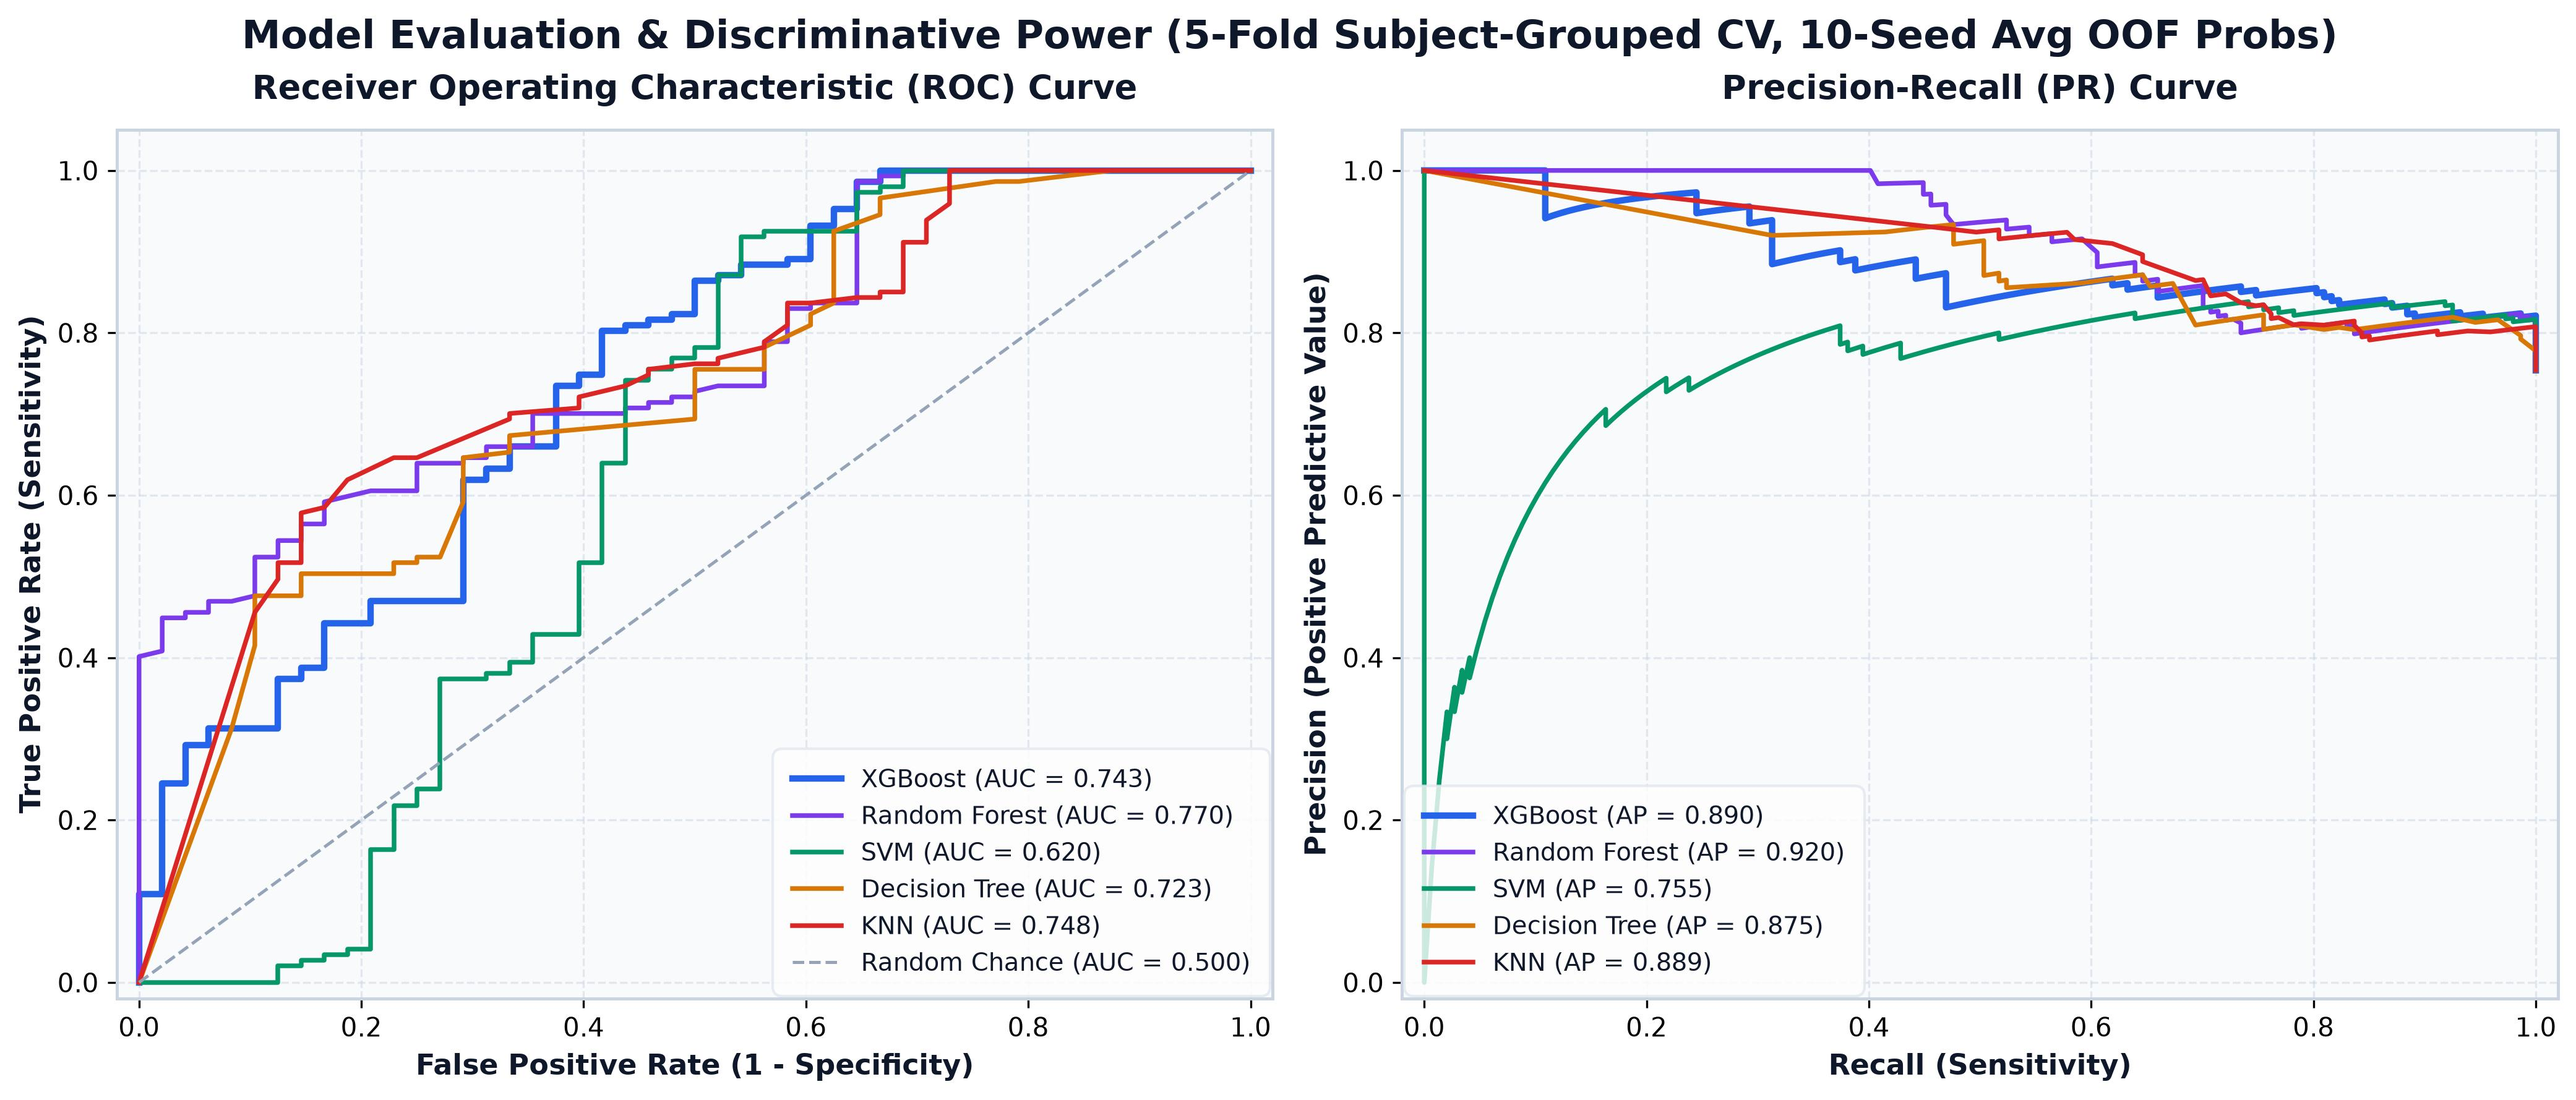
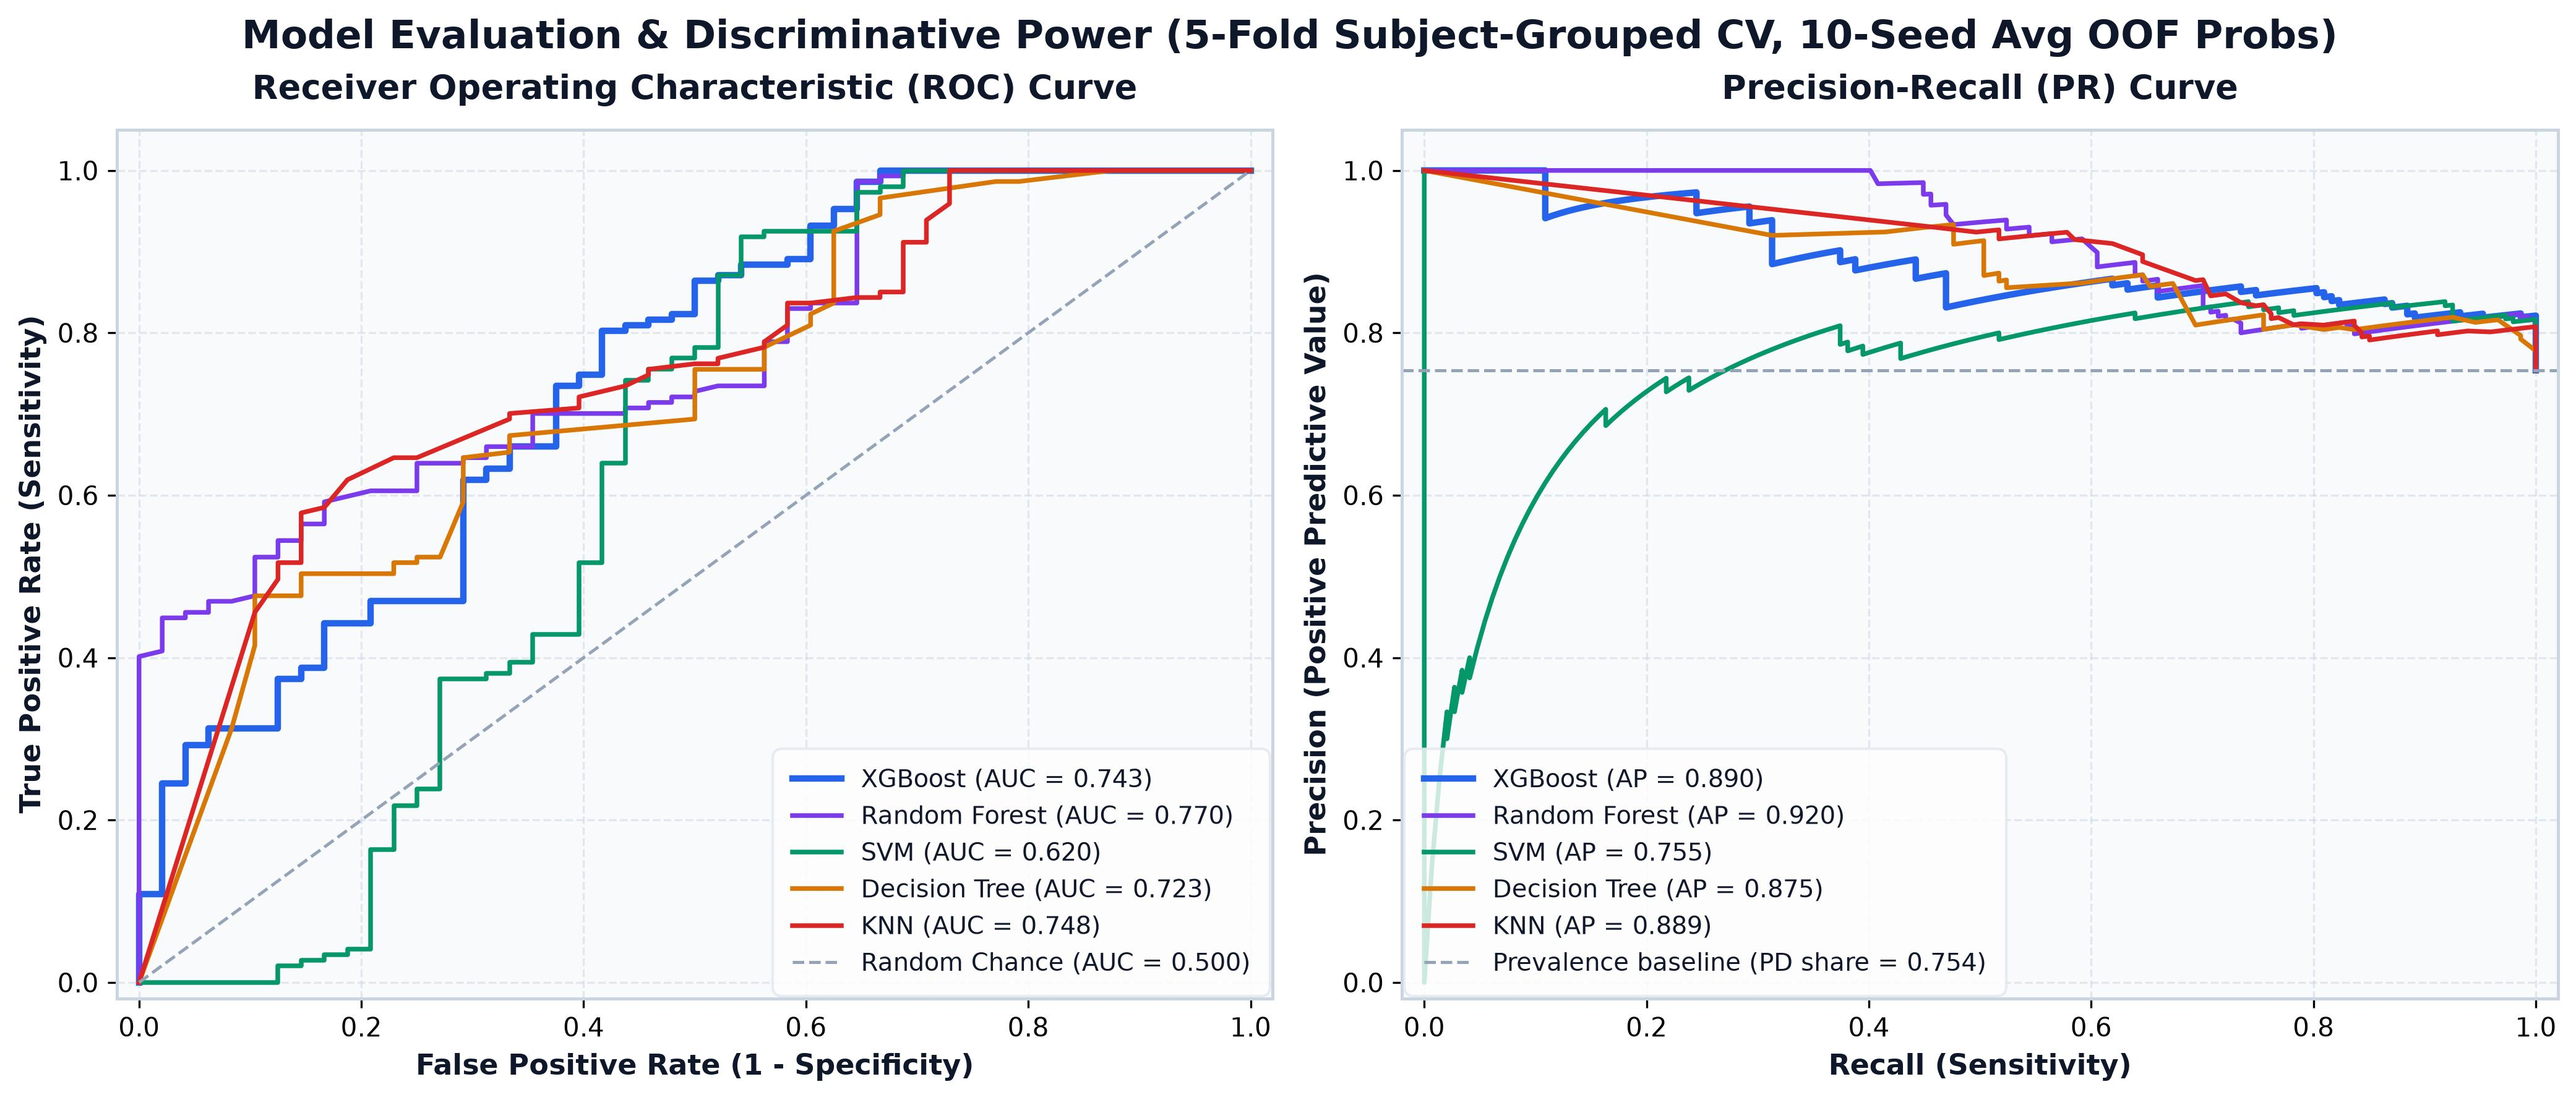
Add VIC reproduction script; README lead, limitations, data credits; PR prevalence baseline

Changed region(s): [[0.5307, 0.6802, 0.7805, 0.8966]]

diff --git a/scripts/reproduce_vic.py b/scripts/reproduce_vic.py
@@ -1,0 +1,70 @@
+"""Reproduce the VIC vs raw-22 subject-grouped CV result from docs/INDEX_PROPOSAL.md.
+
+Protocol: StratifiedGroupKFold(5, shuffle=True, random_state=seed), seeds 0-9,
+Pipeline(StandardScaler -> LogisticRegression(max_iter=5000)), fit per fold.
+Groups = subject ID parsed from the `name` column. VIC is a row-wise function
+(no fitted parameters), so it needs no fold-safe fitting.
+
+Run from repo root: python scripts/reproduce_vic.py
+"""
+import numpy as np
+import pandas as pd
+from sklearn.linear_model import LogisticRegression
+from sklearn.metrics import accuracy_score, f1_score, roc_auc_score
+from sklearn.model_selection import StratifiedGroupKFold
+from sklearn.pipeline import make_pipeline
+from sklearn.preprocessing import StandardScaler
+
+SEEDS = range(10)
+
+
+def load():
+    df = pd.read_csv("data/pd_data.txt")
+    df["VIC"] = np.log10(df["MDVP:Jitter(%)"] * df["Shimmer:APQ3"] * df["spread2"] * 1000)
+    groups = df["name"].str.extract(r"(S\d+)")[0].values
+    y = df["status"].values
+    raw22 = df.drop(columns=["name", "status", "VIC"])
+    return df, raw22, y, groups
+
+
+def evaluate(X, y, groups):
+    per_seed = []  # one dict per seed
+    fold_auc_all = []
+    for seed in SEEDS:
+        skf = StratifiedGroupKFold(n_splits=5, shuffle=True, random_state=seed)
+        accs, f1s, fold_aucs = [], [], []
+        oof = np.zeros(len(y))
+        for tr, va in skf.split(X, y, groups=groups):
+            model = make_pipeline(StandardScaler(), LogisticRegression(max_iter=5000))
+            model.fit(X.iloc[tr], y[tr])
+            p = model.predict_proba(X.iloc[va])[:, 1]
+            oof[va] = p
+            accs.append(accuracy_score(y[va], p > 0.5))
+            f1s.append(f1_score(y[va], p > 0.5, zero_division=0))
+            if len(np.unique(y[va])) == 2:
+                fold_aucs.append(roc_auc_score(y[va], p))
+        per_seed.append({
+            "acc": np.mean(accs), "f1": np.mean(f1s),
+            "auc_foldmean": np.mean(fold_aucs),     # docs/INDEX_PROPOSAL.md AUC: mean of per-fold AUCs, per seed
+            "auc_pooled": roc_auc_score(y, oof),    # for reference: AUC of the pooled OOF vector (generate_clean_assets.py's per-seed AUC)
+        })
+    return pd.DataFrame(per_seed)
+
+
+def main():
+    df, raw22, y, groups = load()
+    print(f"rows={len(df)} subject IDs={len(set(groups))} PD={y.sum()} healthy={(y == 0).sum()}")
+    sets = {
+        "VIC alone": df[["VIC"]],
+        "Raw 22": raw22,
+        "VIC parents (Jitter%, APQ3, spread2)": df[["MDVP:Jitter(%)", "Shimmer:APQ3", "spread2"]],
+    }
+    for name, X in sets.items():
+        r = evaluate(X, y, groups)
+        print(f"\n{name}  (mean +/- std over 10 seeds)")
+        for col in ["acc", "f1", "auc_foldmean", "auc_pooled"]:
+            print(f"  {col:13s} {r[col].mean():.3f} +/- {r[col].std(ddof=0):.3f}")
+
+
+if __name__ == "__main__":
+    main()

diff --git a/generate_clean_assets.py b/generate_clean_assets.py
@@ -390,6 +390,10 @@ def plot_roc_pr(y, oof_probabilities):
     plt.setp(leg1.get_texts(), color='#0F172A')
 
     # PR Panel styling
+    # Prevalence baseline: precision of a no-skill classifier equals the PD share (147/195).
+    prevalence = y.mean()
+    ax2.axhline(prevalence, linestyle='--', lw=1.2, color='#94A3B8',
+                label=f'Prevalence baseline (PD share = {prevalence:.3f})')
     ax2.set_xlim([-0.02, 1.02])
     ax2.set_ylim([-0.02, 1.05])
     ax2.set_xlabel('Recall (Sensitivity)', fontsize=11, fontweight='bold', color='#0F172A')

diff --git a/README.md b/README.md
@@ -9,7 +9,7 @@
 
 Five classifiers are compared on the Oxford Parkinson's voice dataset using cross-validation **grouped by subject**, so no person's recordings appear in both training and validation. The project also introduces **VIC**, a single composite voice feature.
 
-- **XGBoost** is the best of the five (F1 0.872, accuracy 0.796), but it only slightly beats a predict-everyone-has-PD baseline (F1 0.860, accuracy 0.756).
+- **No model clearly beats the majority baseline.** The best accuracy (XGBoost, 0.796 ± 0.098) and F1 (XGBoost, 0.872 ± 0.063) sit inside the noise of the predict-everyone-has-PD baseline (accuracy 0.756 ± 0.067, F1 0.860 ± 0.043). The table below has all five models.
 - **VIC alone** reaches 0.833 ROC-AUC in a logistic-regression test, versus 0.734 for all 22 raw features.
 - **Row-level splits inflate scores on this dataset**, because each person has 6–7 recordings and a random split puts the same speaker in both train and test. Grouping by subject removes that.
 
@@ -41,7 +41,7 @@ flowchart TD
 | KNN | 0.754 ± 0.081 | 0.810 ± 0.080 | 0.891 ± 0.086 | 0.844 ± 0.055 | 0.715 ± 0.046 |
 
 How to read this table:
-- **XGBoost leads**, but its margins over the baseline are within fold-to-fold noise.
+- **XGBoost has the top accuracy and F1**, but its margins over the baseline are within fold-to-fold noise.
 - **Random Forest ranks cases best** (highest AUC), but its default decision threshold is poorly set.
 - **SVM's high F1 is misleading.** Its near-chance AUC shows the score comes from mostly predicting PD.
 
@@ -50,7 +50,7 @@ How to read this table:
   <br/>
   <img src="assets/roc_pr_curves.jpg" alt="ROC and precision-recall curves" width="85%" />
   <br/>
-  <em>ROC curves pool probabilities across seeds, so the Decision Tree's curve (0.723) reads higher than its per-seed average in the table (0.637).</em>
+  <em>Both panels pool out-of-fold probabilities across the 10 seeds, so each curve's AUC differs from the per-seed average in the table, for every model (for example Decision Tree: 0.723 pooled vs 0.637 per-seed). The dashed line in the PR panel is the prevalence baseline, 147/195 = 0.754.</em>
 </p>
 
 ## VIC: Vocal Instability Compound
@@ -59,7 +59,9 @@ $$\text{VIC} = \log_{10}(\text{Jitter\%} \times \text{Shimmer:APQ3} \times \text
 
 VIC combines three kinds of voice instability: frequency (jitter), amplitude (shimmer), and pitch spread. In a standalone logistic-regression test with subject-grouped CV, VIC alone scored **0.833 ROC-AUC** against **0.734** for all 22 raw features. The 22-feature model overfits at this sample size, so this doesn't show that one feature beats twenty-two. VIC is also included as a feature in all five models above.
 
-**Limitation:** `spread2` is missing from every external dataset tried, so VIC's full formula has only been tested on the Oxford data. Details are in [`docs/`](docs/).
+The 0.833 / 0.734 comparison is reproduced by [`scripts/reproduce_vic.py`](scripts/reproduce_vic.py). It reports ROC-AUC as the mean of per-fold AUCs; the table above uses the AUC of pooled out-of-fold predictions per seed, so the two AUC columns are not directly comparable.
+
+See Limitations below and [`docs/`](docs/) for the rest.
 
 ## Run it
 
@@ -87,6 +89,20 @@ assets/                    figures used in this README
 
 The data is the UCI Oxford Parkinson's Disease Detection Dataset (Little et al.). It has 195 recordings, 147 from people with PD and 48 from healthy controls. The file contains 32 subject IDs, while the UCI documentation says 31 people. Each recording has 22 acoustic features covering pitch, jitter, shimmer, noise ratios, nonlinear dynamics (D2, RPDE, DFA), and pitch entropy (spread1, spread2, PPE).
 
+Two external datasets in `data/` are used only for the validation write-ups in `docs/`:
+- `ReplicatedAcousticFeatures-ParkinsonDatabase.csv`: UCI dataset 489, Naranjo et al. ([`docs/VIC_EXTERNAL_VALIDATION.md`](docs/VIC_EXTERNAL_VALIDATION.md)).
+- `parkinsons_updrs.data`: UCI Parkinson's Telemonitoring dataset, Tsanas, Little, McSharry and Ramig, University of Oxford ([`docs/VIC_TELEMONITORING_VALIDATION.md`](docs/VIC_TELEMONITORING_VALIDATION.md)).
+
+`docs/problem_statement.pdf` is the UCI dataset description, not project-authored.
+
+## Limitations
+
+- `spread2` is missing from both external datasets, so VIC's full formula is tested on the Oxford data only.
+- The 22-feature model overfits at this sample size (195 rows, 32 subjects), so VIC's 0.833 vs 0.734 does not show that one feature beats twenty-two.
+- SVM's F1 (0.871) comes from predicting PD for most recordings; its AUC (0.636) is near chance.
+
+More in [`docs/`](docs/).
+
 ## Acknowledgments
 
-VIC was inspired by the fPI index from *"fPI: A Novel Index for Predictive Analysis of Parkinson's Disease Using Acoustic Sound Feature"* (Gupta, Bhan & Nimsarkar, IIIT Naya Raipur). This project started from [bhanmrinal/fPI-Parkison-Analyser-using-Acoustic-Sound-Features](https://github.com/bhanmrinal/fPI-Parkison-Analyser-using-Acoustic-Sound-Features); earlier notebooks are in `legacy/`.
+VIC was inspired by the fPI index from *"fPI: A Novel Index for Predictive Analysis of Parkinson's Disease Using Acoustic Sound Feature"* (Gupta, Bhan & Nimsarkar, IIIT Naya Raipur). VIC is independently derived and does not reuse the fPI formula. This project started from [bhanmrinal/fPI-Parkison-Analyser-using-Acoustic-Sound-Features](https://github.com/bhanmrinal/fPI-Parkison-Analyser-using-Acoustic-Sound-Features); earlier notebooks are in `legacy/`.

diff --git a/docs/INDEX_PROPOSAL.md b/docs/INDEX_PROPOSAL.md
@@ -4,7 +4,7 @@ Exploratory analysis only. No formula implemented in the pipeline. No other repo
 
 ## Methodology summary (read before trusting numbers)
 
-- Dataset: `data/pd_data.txt`, 195 recordings, **32 unique subjects** (extracted from the `name` column, e.g. `phon_R01_S01_1` → subject `S01`), 147 PD / 48 healthy. **Majority-class baseline: accuracy = 0.754, F1 (predict-all-PD) = 0.860.** Any candidate must clear both meaningfully to mean anything — a number that lands *on* these values is the model predicting PD for everything, not finding signal.
+- Dataset: `data/pd_data.txt`, 195 recordings, **32 subject IDs in the file (the UCI documentation states 31 people)** (extracted from the `name` column, e.g. `phon_R01_S01_1` → subject `S01`), 147 PD / 48 healthy. **Majority-class baseline: accuracy = 0.754 (share of PD recordings across all 195 rows, 147/195; the fold-averaged majority baseline used elsewhere is 0.756), F1 (predict-all-PD) = 0.860.** Any candidate must clear both meaningfully to mean anything — a number that lands *on* these values is the model predicting PD for everything, not finding signal.
 - Two CV schemes, because plain row-level k-fold leaks: sibling recordings of the same subject can land in both train and test.
   - Row-level: `RepeatedStratifiedKFold(n_splits=5, n_repeats=10, random_state=42)` — the split the task asked for, mean±std over 50 folds.
   - Subject-grouped (the number that actually generalizes): `StratifiedGroupKFold(n_splits=5, shuffle=True, random_state=seed)`, averaged over 10 seeds (0–9), mean±std over those 10 runs. This is reported as the deciding evidence below, not a footnote — see the correction note under Candidate 2.
